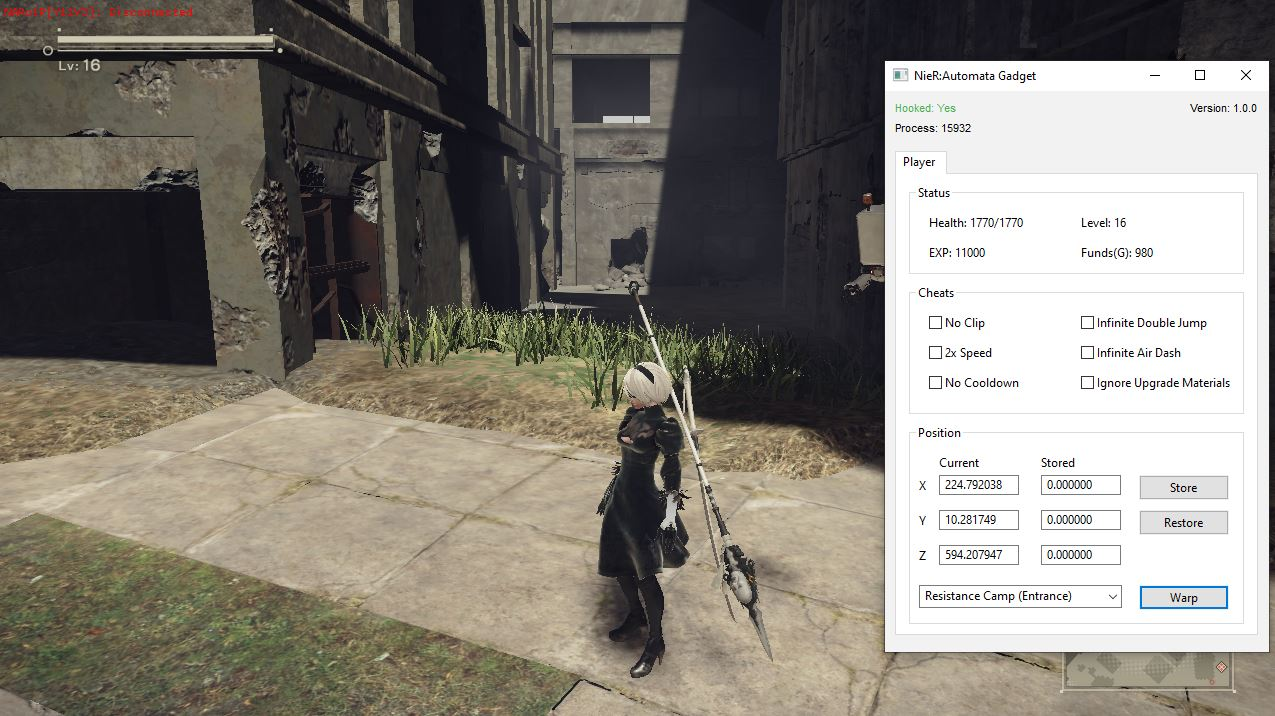
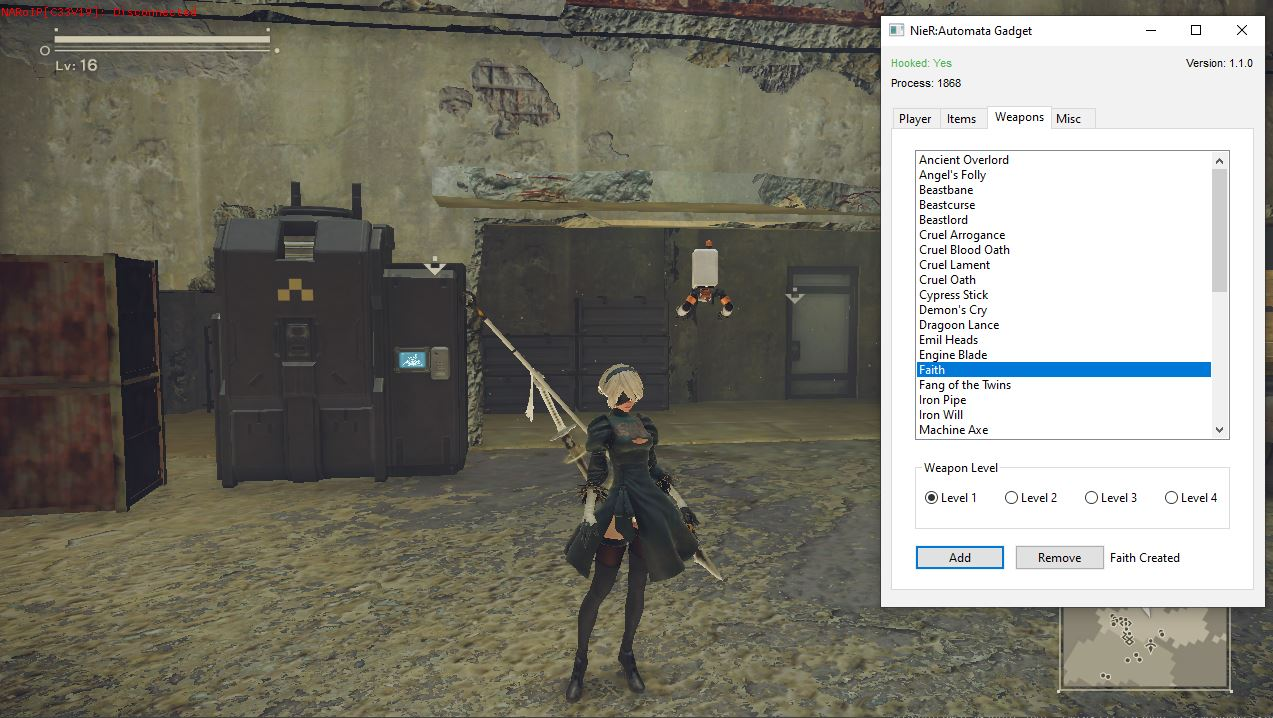
v1.1.0

diff --git a/README.md b/README.md
@@ -27,14 +27,19 @@ All features will be disabled until Gadget attaches to the game (indicated at th
 - `Infinite Double Jump` - removes 2 jump limitation
 - `Infinite Air Dash` - removes single air dash limiation
 - `2x Speed` - set game speed to 2x
+- `Manage Items` - Add/Remove items
+- `Manage Weapons` - Add/Remove weapons
+- `HUD opacity` - set the HUD opacity
+- `RGB color combination` - set the game color combination
 
 ## :clipboard: Release Notes
 
-### Version 1.0.1 | [View Previous Versions](Notes.md)
+### Version 1.1.0 | [View Previous Versions](Notes.md)
 
 #### What's new?
 
-- Fixed memory leaks
-- Fixed crashes
+- Items tab
+- Weapons tab
+- Misc tab
 
 ## :page_with_curl: [License](LICENSE)

diff --git a/Notes.md b/Notes.md
@@ -1,3 +1,13 @@
+# Version 1.1.0 Notes
+
+## What's new?
+
+- Items tab
+- Weapons tab
+- Misc tab
+
+---
+
 # Version 1.0.1 Notes
 
 ## What's new?
